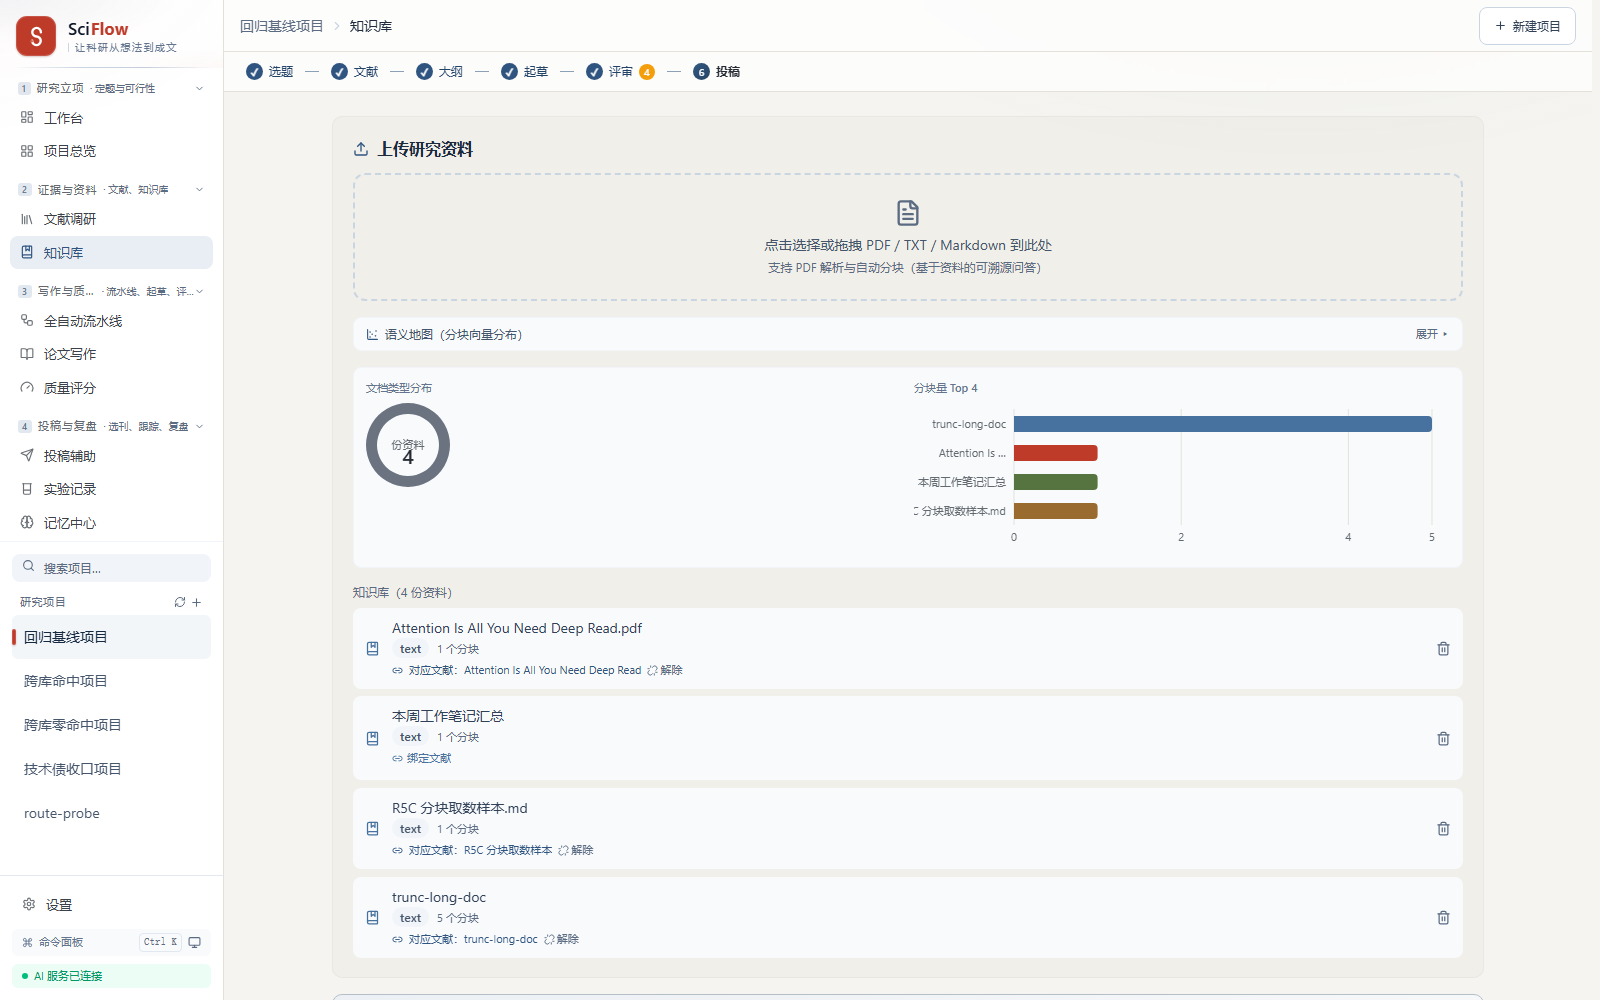
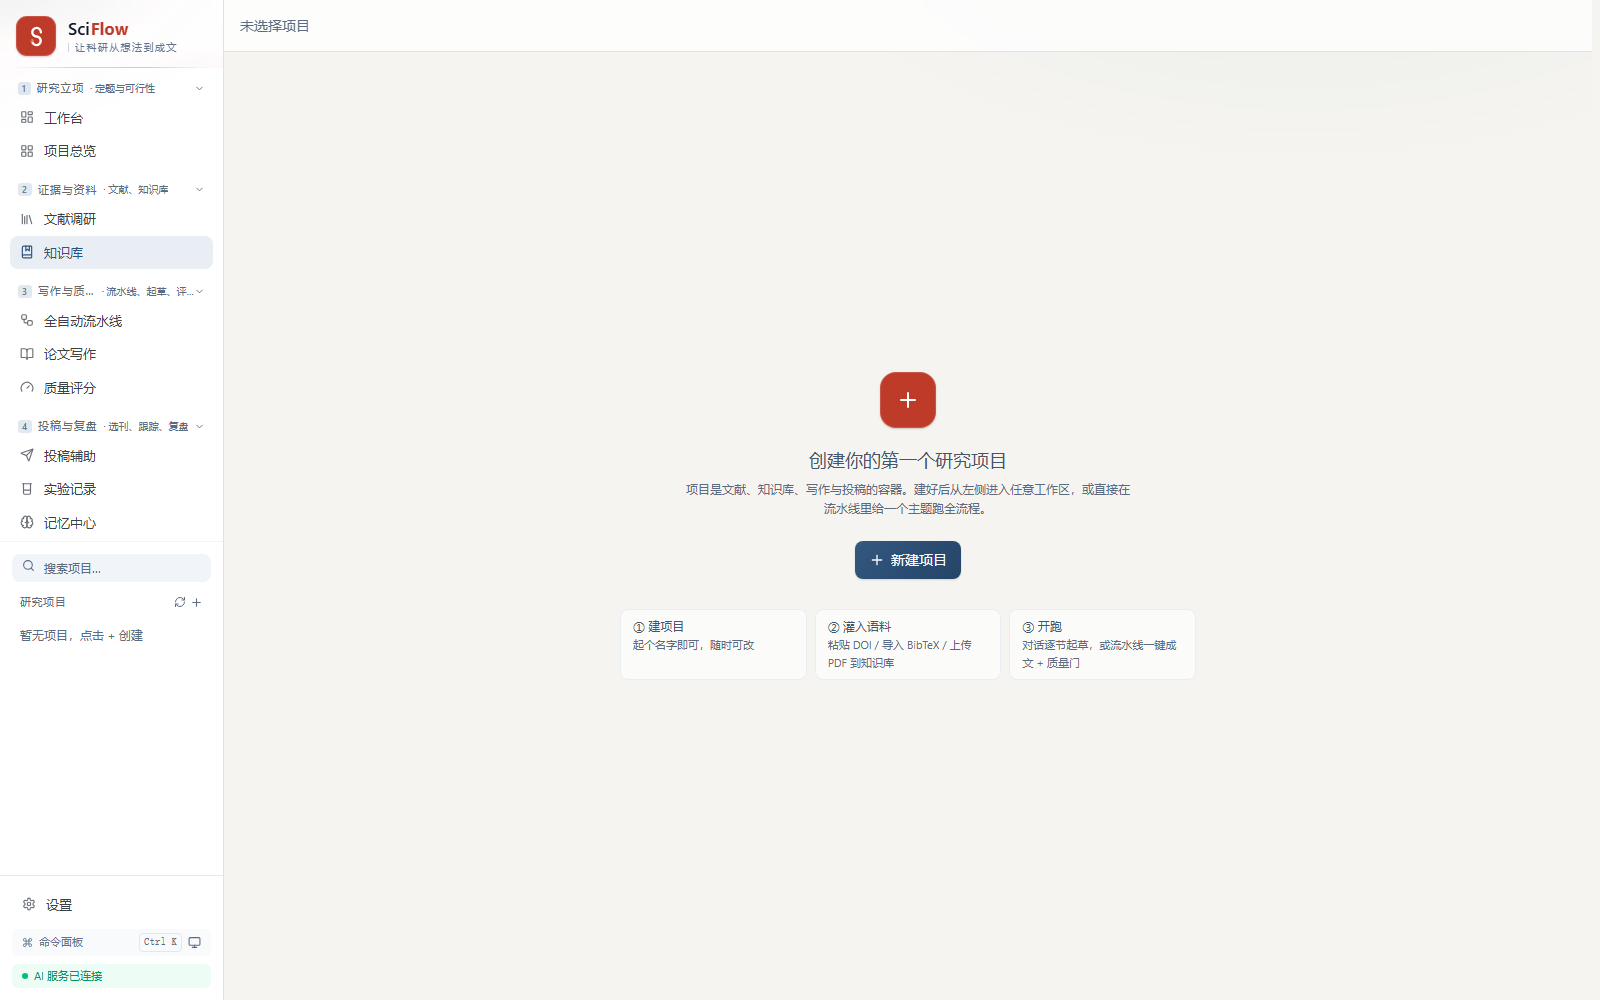
ui: truth-first default state + interface governance pass
Data truth:
- Official screenshots were captured on a DB polluted by regression
  and demo seeds, so the sidebar showed script artifacts
  (回归基线项目 / route-probe) that read as preinstalled data. All
  screenshots are now captured on a brand-new empty database: the
  shipped default state is the real state. Exhibition data stays
  opt-in via scripts/seed-demo.mjs (manual CLI only, unchanged).
- No-project empty state upgraded: seal tile, one-line guidance,
  create button, and a three-step onboarding row (create project ->
  load sources -> run) instead of a bare sentence.
- Experiments form no longer prefills a runnable Python sample
  (hidden prefabricated data: one click on Run created a record);
  empty input + placeholder guidance instead, run disabled when
  empty.

Governance:
- Dashboard: global stage bar removed on the overview page (the
  cockpit already renders the full clickable stage navigation -
  showing both is same-screen duplication).
- Literature: year/venue/high-cited charts moved into a collapsed
  in-library overview disclosure; first screen reaches the reference
  list directly.
- Quality: objective checker grid 6 cols -> lg 7 / sm 4+3 (the 7th
  dimension no longer wraps alone).
- Experiments: design-assistant empty state switched to the compact
  Empty variant for narrow columns.

Verified: lint 0, web 175 tests, web build, 18 screenshots recaptured
on the clean DB (writing shot skipped honestly - no docs exist yet).

diff --git a/apps/web/src/App.tsx b/apps/web/src/App.tsx
@@ -406,7 +406,9 @@ function AppInner() {
             sidebarWidth={224}
             toolbarTitle={VIEW_LABELS[view]}
             stageBar={
-              currentProject && view !== 'settings' ? (
+              /* 项目总览不显示全局阶段条：驾驶舱（ProjectCockpit）已内含完整阶段导航，
+                 两处同时渲染是同屏重复（2026-11 界面治理审计） */
+              currentProject && view !== 'settings' && view !== 'dashboard' ? (
                 <StageBar
                   project={currentProject}
                   view={view}
@@ -479,11 +481,31 @@ function AppInner() {
                 </div>
               )}
               {!currentProject && view !== 'settings' ? (
-                <div className="h-full flex flex-col items-center justify-center text-slate-400 gap-3">
-                  <div className="text-lg">请先创建一个研究项目</div>
-                  <Button onClick={() => setShowNewProject(true)}>
+                /* 无项目空态：按 Empty 规范给出「现在做什么」的三步引导，
+                   而不是一句干巴巴的提示（2026-11 界面治理：默认状态即门面） */
+                <div className="h-full flex flex-col items-center justify-center text-slate-400 gap-1.5 text-center px-4">
+                  <div className="w-14 h-14 rounded-2xl brand-logo flex items-center justify-center mb-3">
+                    <Plus size={24} className="text-white" aria-hidden="true" />
+                  </div>
+                  <div className="text-lg font-medium text-slate-600 dark:text-slate-300">创建你的第一个研究项目</div>
+                  <div className="max-w-md text-xs leading-relaxed text-slate-400 dark:text-slate-500">
+                    项目是文献、知识库、写作与投稿的容器。建好后从左侧进入任意工作区，或直接在流水线里给一个主题跑全流程。
+                  </div>
+                  <Button className="mt-4" onClick={() => setShowNewProject(true)}>
                     <Plus size={16} aria-hidden="true" /> 新建项目
                   </Button>
+                  <ol className="mt-6 grid grid-cols-1 sm:grid-cols-3 gap-2 max-w-xl w-full text-left" aria-label="上手路径">
+                    {[
+                      ['① 建项目', '起个名字即可，随时可改'],
+                      ['② 灌入语料', '粘贴 DOI / 导入 BibTeX / 上传 PDF 到知识库'],
+                      ['③ 开跑', '对话逐节起草，或流水线一键成文 + 质量门'],
+                    ].map(([t, d]) => (
+                      <li key={t} className="rounded-lg border border-slate-200/70 dark:border-slate-800 bg-white/60 dark:bg-slate-900/40 px-3 py-2">
+                        <div className="text-xs font-medium text-slate-600 dark:text-slate-300">{t}</div>
+                        <div className="text-[11px] text-slate-400 dark:text-slate-500 mt-0.5 leading-relaxed">{d}</div>
+                      </li>
+                    ))}
+                  </ol>
                 </div>
               ) : (
                 <>{PAGE_RENDERERS[view]({ project: currentProject, openDoc: (id: string) => navigate(`/writing?doc=${id}`), onNavigate: setView, initialDocId: selectedDocId })}</>

diff --git a/apps/web/src/pages/literature/LiteratureTable.tsx b/apps/web/src/pages/literature/LiteratureTable.tsx
@@ -1,7 +1,7 @@
 import { useCallback, useContext, useEffect, useMemo, useState } from 'react';
 import { flexRender, getCoreRowModel, getSortedRowModel, useReactTable, type ColumnDef, type SortingState } from '@tanstack/react-table';
 import { ExtractionHeatmap } from './ExtractionHeatmap';
-import { BookOpenCheck, FileDown, FlaskConical, Loader2, ShieldCheck, StickyNote, Trash2, Upload } from 'lucide-react';
+import { BookOpenCheck, ChevronRight, FileDown, FlaskConical, Loader2, ShieldCheck, StickyNote, Trash2, Upload } from 'lucide-react';
 import type { DiscoveredReference, EvidenceResult, PaperComparisonResult, Project, Reference, ReferenceGraph, DeepDiveResult, GapResult, ExtractedPaper, ExtractionField, ExtractionTableResult, ScreeningItem } from '../../types';
 import { Badge, Button, Card, CollapsibleCard, ConfirmDialog, Empty, ErrorBox, Input, Spinner, Textarea, jsonText, errMsg } from '../../components/ui';
 import { ChartEmpty, Donut, HBar } from '../../components/charts';
@@ -847,9 +847,17 @@ export function LiteratureTable(props: LiteratureTableProps) {
           <Empty text="文献库为空。三步获得第一批文献：① 粘贴 DOI（自动识别去重）② 导入 BibTeX（文件/粘贴）③ 手动添加文献或上传全文到知识库" />
         ) : (
           <>
-            {/* 文献库统计概览 */}
-            <div className="mb-3 p-3 rounded-lg bg-slate-50 dark:bg-slate-900/40 border border-slate-100 dark:border-slate-800">
-              <div className="grid md:grid-cols-2 gap-3">
+            {/* 文献库统计概览：默认折叠——图表是回顾性信息，列表才是主任务；
+                收起后首屏直接看到文献条目（2026-11 界面治理：图表常驻把列表挤到三屏外） */}
+            <details className="v2-disclosure mb-3 rounded-lg bg-slate-50 dark:bg-slate-900/40 border border-slate-100 dark:border-slate-800 p-3">
+              <summary>
+                <ChevronRight size={13} className="v2-disclosure__chevron" aria-hidden="true" />
+                <span className="text-xs font-medium text-slate-600 dark:text-slate-300">
+                  库内概览 · {refs.length} 篇
+                  <span className="ml-2 font-normal text-slate-400 dark:text-slate-500">年份 / 来源分布与高被引</span>
+                </span>
+              </summary>
+              <div className="mt-3 grid md:grid-cols-2 gap-3">
                 <div>
                   <div className="text-[11px] font-medium text-slate-500 dark:text-slate-400 mb-1.5">年份分布</div>
                   <HBar data={yearDist} />
@@ -865,7 +873,7 @@ export function LiteratureTable(props: LiteratureTableProps) {
                   <HBar data={topCited} />
                 </div>
               )}
-            </div>
+            </details>
 
             <div className="space-y-2 max-h-[460px] overflow-y-auto pr-1">
               {refs.slice(0, visibleCount).map((r) => {

diff --git a/apps/web/src/pages/ExperimentsPage.tsx b/apps/web/src/pages/ExperimentsPage.tsx
@@ -7,19 +7,19 @@ import type { Doc, Experiment, Project } from '../types';
 import { Badge, Button, Card, ConfirmDialog, Empty, ErrorBox, Input, SectionTitle, Select, Textarea, errMsg } from '../components/ui';
 import { ExperimentDesignCard } from './experiments/DesignCard';
 
-const DEFAULT_CODE = `# 在本机沙箱中运行 Python（超时 10s，临时目录隔离）
-import math
+/* 输入引导（占位提示，不预填）——预填示例代码会被当成"真实数据"误提交/误留存（2026-11 治理） */
+const CODE_PLACEHOLDER = `# 在本机沙箱中运行 Python（超时 10s，临时目录隔离），例如：
 
+import math
 result = sum(math.sqrt(i) for i in range(1, 101))
 print(f"sqrt(1..100) 之和 = {result:.4f}")
 
-# 如需出图，matplotlib 直接 savefig('fig.png') 即可被自动采集
+# 出图：matplotlib savefig('fig.png') 会被自动采集
 # import matplotlib
 # matplotlib.use('Agg')
 # import matplotlib.pyplot as plt
 # plt.plot([0, 1, 2], [0, 1, 4])
-# plt.savefig('fig.png')
-`;
+# plt.savefig('fig.png')`;
 
 function statusBadge(s: Experiment['status']) {
   if (s === 'ok') return <Badge tone="green">成功</Badge>;
@@ -43,7 +43,7 @@ export function ExperimentsPage({ project }: { project: Project }) {
   const [selected, setSelected] = useState<Experiment | null>(null);
   const qc = useQueryClient();
   const [goal, setGoal] = useState('');
-  const [code, setCode] = useState(DEFAULT_CODE);
+  const [code, setCode] = useState('');
   const [documentId, setDocumentId] = useState('');
   const [running, setRunning] = useState(false);
   const [conclusionDraft, setConclusionDraft] = useState('');
@@ -197,7 +197,7 @@ export function ExperimentsPage({ project }: { project: Project }) {
             </div>
             <div>
               <div className="text-xs text-slate-500 dark:text-slate-400 mb-1">Python 代码</div>
-              <Textarea rows={12} className="font-mono text-xs" value={code} onChange={(e) => setCode(e.target.value)} spellCheck={false} />
+              <Textarea rows={12} className="font-mono text-xs" value={code} onChange={(e) => setCode(e.target.value)} placeholder={CODE_PLACEHOLDER} spellCheck={false} />
             </div>
             <Button onClick={run} loading={running} disabled={!code.trim()} className="w-full">
               {running ? <Loader2 size={15} className="animate-spin" /> : <Play size={15} />}

diff --git a/apps/web/src/components/ui.tsx b/apps/web/src/components/ui.tsx
@@ -271,8 +271,17 @@ export function Skeleton({ className = '', lines = 3 }: { className?: string; li
   );
 }
 
-export function Empty({ text, hint, illustration }: { text: string; hint?: string; illustration?: IllustrationKey }) {
+export function Empty({ text, hint, illustration, compact = false }: { text: string; hint?: string; illustration?: IllustrationKey; compact?: boolean }) {
   const IllustrationComp = illustration ? ILLUSTRATIONS[illustration] : null;
+  if (compact) {
+    /* 紧凑变体：窄栏卡片内的空态——一条引导就够，大图标 + 大留白会把主任务挤出视口 */
+    return (
+      <div className="rounded-lg border border-dashed border-slate-200 dark:border-slate-700 px-3 py-2.5 text-center">
+        <div className="text-xs text-slate-500 dark:text-slate-400">{text}</div>
+        {hint && <div className="text-[11px] text-slate-400 dark:text-slate-500 mt-0.5">{hint}</div>}
+      </div>
+    );
+  }
   return (
     <div className="flex flex-col items-center justify-center gap-1.5 text-center py-12">
       {IllustrationComp ? (

diff --git a/apps/web/src/pages/QualityPage.tsx b/apps/web/src/pages/QualityPage.tsx
@@ -333,7 +333,8 @@ export function QualityPage({ project }: { project: Project }) {
           </div>
         ) : objective && objective.docId === docId ? (
           <>
-            <div className="grid grid-cols-2 sm:grid-cols-3 lg:grid-cols-6 gap-2 mb-3">
+            {/* 七个维度：lg 一行七列；sm 4+3 两行——避免 6 列网格下第 7 项孤行（v1.9.4 新增信息密度维后失衡） */}
+            <div className="grid grid-cols-2 sm:grid-cols-4 lg:grid-cols-7 gap-2 mb-3">
               {objective.report.dimensions.map((d) => (
                 <div key={d.key} className="rounded-lg border border-slate-100 px-2.5 py-2 dark:border-slate-800">
                   <div className="text-[11px] text-slate-500 dark:text-slate-400">{d.label}</div>

diff --git a/apps/web/src/pages/experiments/DesignCard.tsx b/apps/web/src/pages/experiments/DesignCard.tsx
@@ -76,7 +76,7 @@ export function ExperimentDesignCard({ project }: { project: Project }) {
           产出可直接执行的变量表（自变量/因变量/控制变量）、对照组设置、样本量与统计功效提示、实验流程与分析计划；设计稿自动保存。
         </div>
         {designs.length === 0 ? (
-          <Empty text="还没有实验设计稿" hint="输入研究问题生成第一份设计稿" />
+          <Empty compact text="还没有实验设计稿" hint="输入研究问题生成第一份设计稿" />
         ) : (
           <div className="space-y-2">
             {designs.map((d) => (

diff --git a/CHANGELOG.md b/CHANGELOG.md
@@ -13,12 +13,23 @@ adheres to [Semantic Versioning](https://semver.org/).
   - **色彩**：默认主题改为「朱印纸墨」——暖纸白底 `#F5F4F0`、近黑墨色正文 `#262B33`、黛蓝主色 `#2F5480`、朱砂签名色 `#BE3B2A`（一屏一处，只用于印底/朱点/词标；错误语义仍走 rose，二者不同值不同职责）。`--color-teal-*` 工具类整段重映射为黛蓝阶，2600+ 处组件类名零改动完成换色；深色「墨夜」底改暖调近黑 `#101318`。图表系列色同步换为黛蓝/朱砂/苔绿/赭石/石青/灰。
   - **质感收敛**：`brand-btn`/`nav-active` 的多色渐变改为同相两档微差（读作平涂）；常驻辉光删除（hover 保留低幅投影）；玻璃顶栏降模糊降饱和；图表/空态插画渐变回退值同步更新。
   - **各端落地**：桌面端窗口背景/错误页（`#F5F4F0`/`#101318`）、浏览器 `theme-color`、设置页风格名与色卡、GitHub Pages 落地页（`docs/index.html` 配色与 favicon）、`docs/BRAND.md` 全文重写为 2.0。
-  - 18 张界面截图（10 页面 + 深色 + 6 风格×明暗 + 写作页）已用新品牌重拍。
+- **默认状态即真实状态：官方截图不再使用回归/演示数据。** 此前 README 截图在跑过回归与演示种子的库上采集，侧栏出现「回归基线项目 / route-probe」等脚本产物，看起来像预置数据。现全部截图改为**全新空库**采集——应用出厂即真实状态；展览/演示数据仍可经 `node scripts/seed-demo.mjs`（仅手动 CLI）注入，不改默认行为。无项目空态同步升级：印章图标 + 三步上手卡（建项目 → 灌语料 → 开跑），不再是一句孤立提示。
+- **界面治理审计**：
+  - 项目总览：全局阶段条与驾驶舱内阶段导航同屏重复——总览页不再渲染全局阶段条，保留驾驶舱内可点击的完整版。
+  - 文献库：年份/来源分布与高被引图表常驻把文献列表挤出两屏，改为默认折叠的「库内概览」披露区（v2-disclosure），首屏直达文献条目。
+  - 质量评分：客观检查器七维网格由 6 列（第 7 项「信息密度」孤行）改为 lg 7 列 / sm 4+3 两行。
+  - 实验沙箱：右栏「实验设计助手」空态改紧凑变体（`Empty compact`），窄栏不再被大图标空态占据。
+  - 全部截图（10 页面 + 深色 + 6 风格×明暗）在治理后用空库重拍。
+
+### Removed
+
+- **实验沙箱不再预填示例代码**：新建实验的代码框此前预填一段可运行的 Python 示例（点「运行」即产生一条记录），属隐性预制数据；改为空输入框 + placeholder 引导，空代码时运行按钮禁用。
 
 ### Fixed
 
 - **截图脚本的同文档导航陷阱**：`capture-screenshots.mjs` 主题循环里 `page.goto` 到与当前完全相同的 URL（`#/settings` → `#/settings`）不会重载页面，localStorage 的新主题值读不到，上一轮的明暗会「粘」到后续所有截图（此前能通过纯属初始状态恰好等于期望）。改为设键后显式 `page.reload()`。
-- **出站守卫单测依赖真实 DNS**：`outbound-guard.spec.ts` 的「公网放行」用例直接解析 example.com——本机代理 fake-ip 模式会把任意域名解析到 `198.18.0.0/15`（RFC 2544 保留段），守卫按契约正确拒绝导致误报。改为 mock `dns.lookup`（守卫行为无缺陷，测试不应依赖网络环境）。
+- **出站守卫单测依赖真实 DNS**：`outbound-guard.spec.ts` 的「公网放行」用例直接解析 example.com——本机代理 fake-ip 模式会把任意域名解析到 `198.18.0.0/15`（RFC 2544 基准测试保留段），守卫按契约正确拒绝导致误报。改为 mock `dns.lookup`（守卫行为无缺陷，测试不应依赖网络环境）。
+- **端口占用导致的假截图**：5173 被其他项目的残留 dev server 占用且 vite 未加 `--strictPort` 时会顺延端口，截图脚本截到的是别家应用。采集前必须核验页面标题。
 
 ## [1.10.0] - 2026-11-03
 
